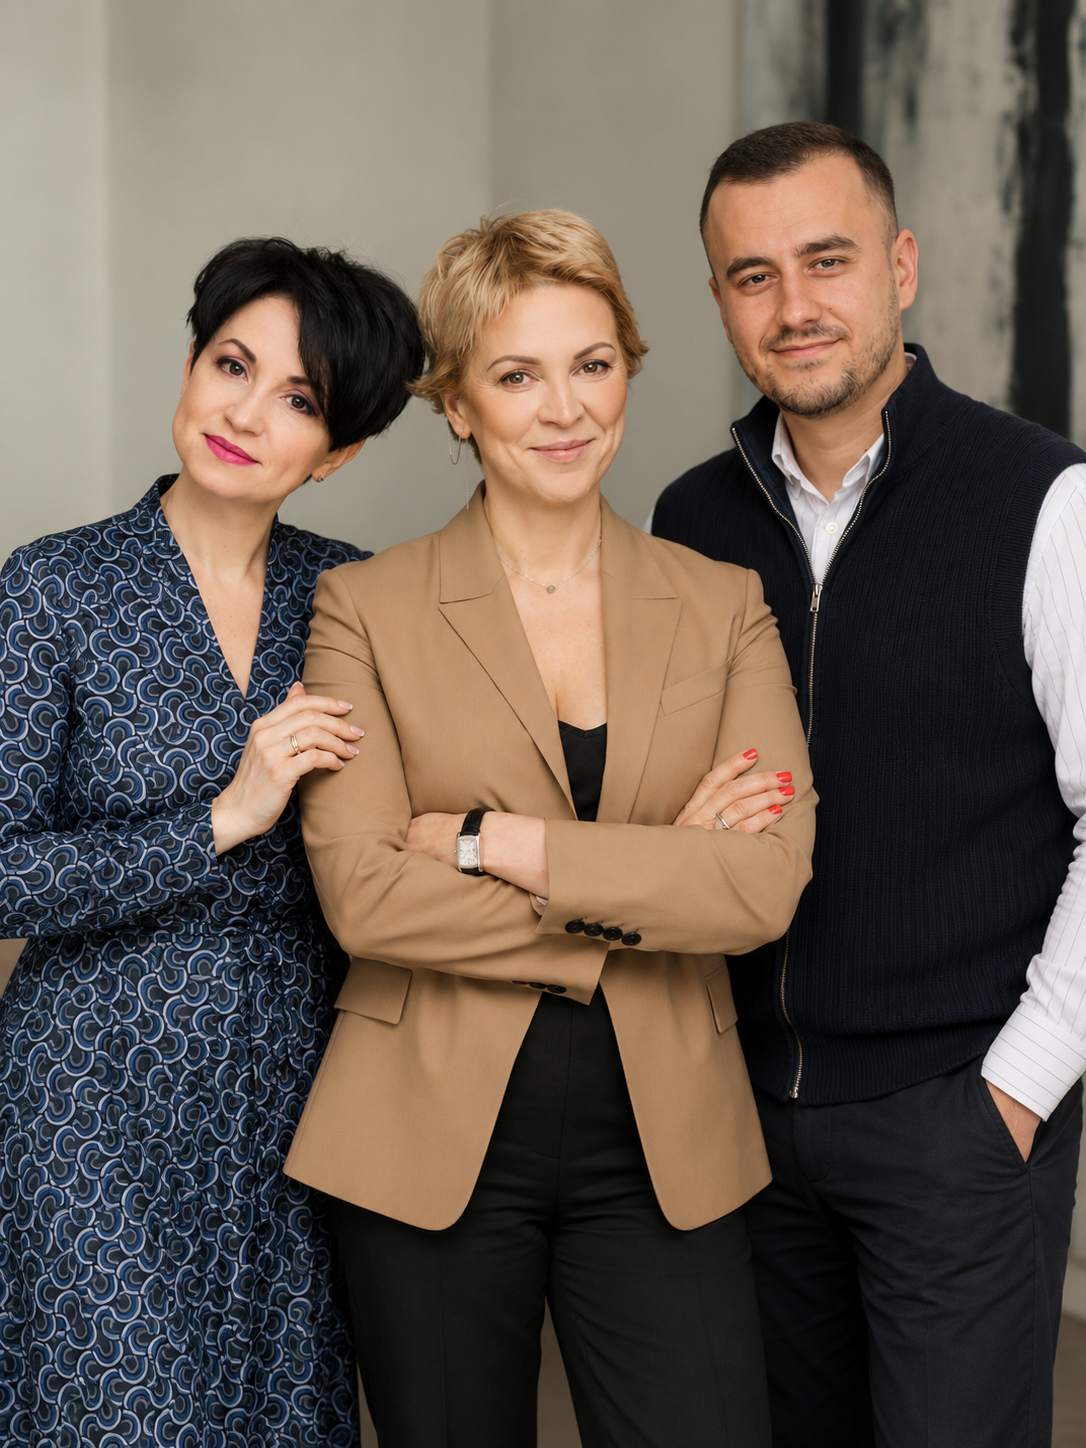
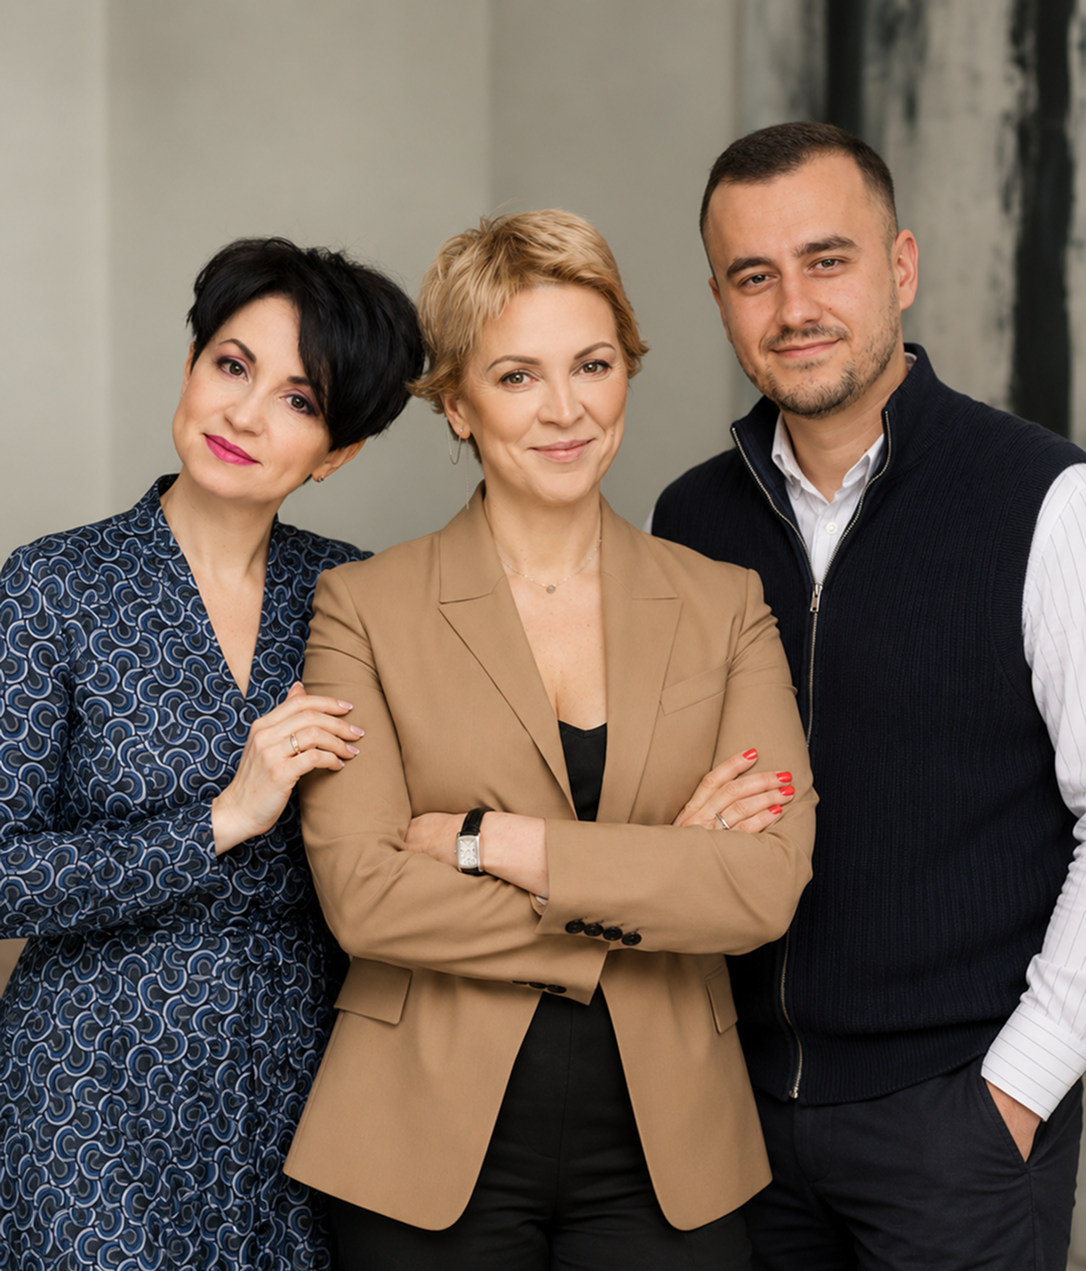
Update hero photo to new group portrait crop

diff --git a/index.html b/index.html
@@ -798,7 +798,7 @@
   </div>
 
   <div class="hero__media">
-    <img src="img/hero.jpg" alt="Спікери вебінару: Мар’яна Кавин, Олена Макеєва та Богдан Янків" width="1086" height="1448" fetchpriority="high">
+    <img src="img/hero.jpg" alt="Спікери вебінару: Мар’яна Кавин, Олена Макеєва та Богдан Янків" width="1086" height="1271" fetchpriority="high">
     <span class="media-tone"></span>
     <span class="media-fade"></span>
   </div>
